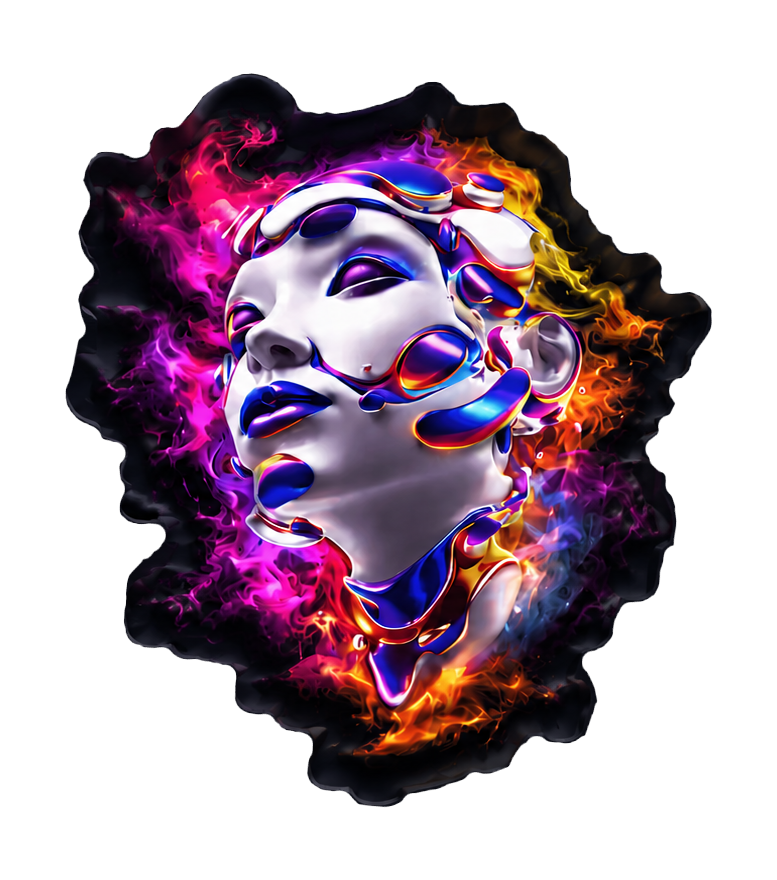
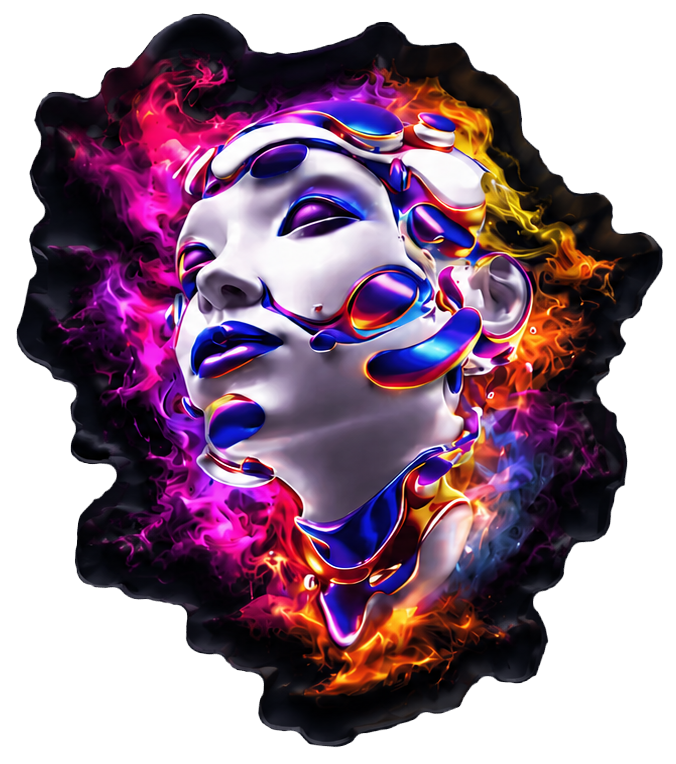
Enlarge hero head, smooth the orbs, drop button hover
- Recrop the art-head tighter and show it larger (per design ~668 wide).
- Rework the ambient orbs as a soft closest-side radial with no blur, so
  they no longer pixelate or clip at section edges.
- Remove the Send Inquiry hover (the mock has none).

diff --git a/src/styles/global.css b/src/styles/global.css
@@ -173,18 +173,28 @@ input::placeholder {
 
 .orb {
   position: absolute;
-  width: 627px;
-  height: 627px;
+  width: 680px;
+  height: 680px;
   border-radius: 50%;
-  -webkit-filter: blur(45px);
-  filter: blur(45px);
   pointer-events: none;
   z-index: 0;
-  background: radial-gradient(circle, rgba(30, 65, 170, 0.22) 0%, rgba(30, 65, 170, 0) 68%);
+  background: radial-gradient(
+    circle closest-side,
+    rgba(30, 65, 170, 0.26) 0%,
+    rgba(30, 65, 170, 0.15) 28%,
+    rgba(30, 65, 170, 0.06) 52%,
+    rgba(30, 65, 170, 0) 78%
+  );
 }
 
 .orb--deep {
-  background: radial-gradient(circle, rgba(17, 45, 131, 0.34) 0%, rgba(7, 34, 117, 0) 68%);
+  background: radial-gradient(
+    circle closest-side,
+    rgba(21, 52, 143, 0.32) 0%,
+    rgba(16, 44, 126, 0.16) 30%,
+    rgba(10, 38, 116, 0.05) 55%,
+    rgba(7, 34, 117, 0) 80%
+  );
 }
 
 /* Accessible visually-hidden helper (for form labels). */